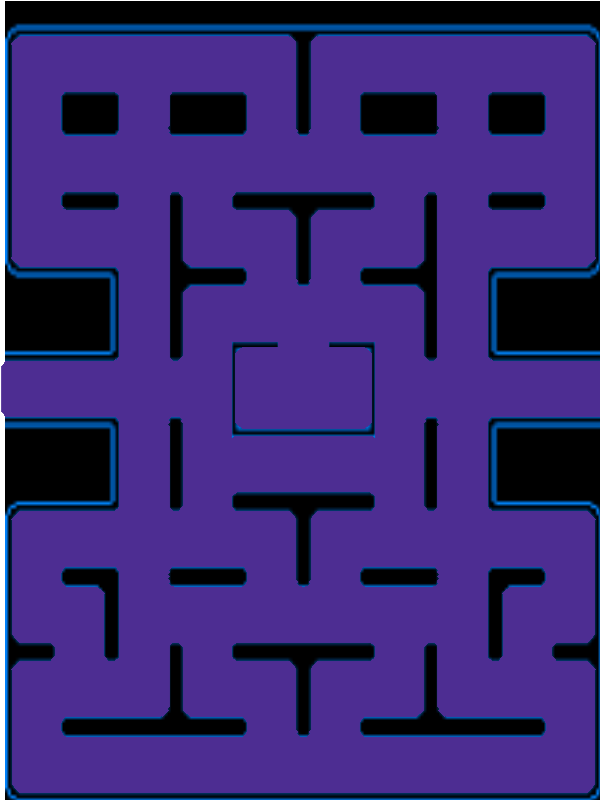
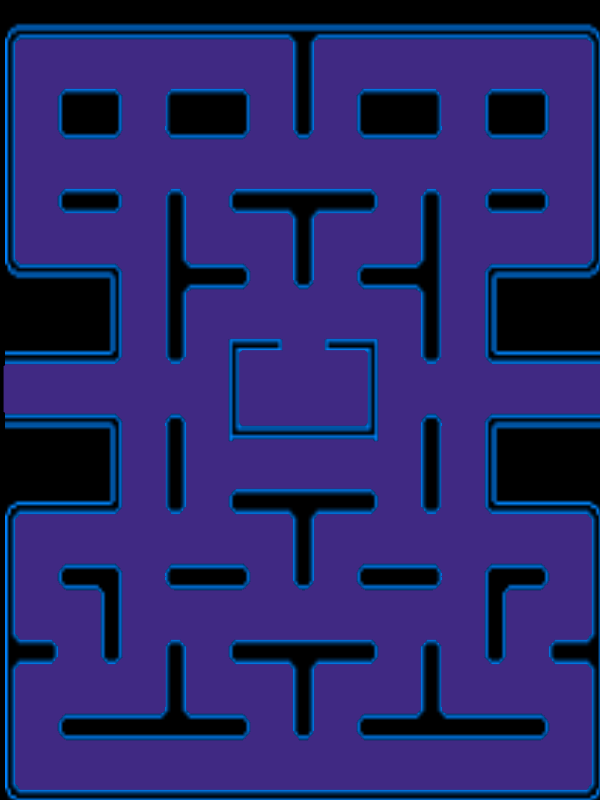
update

diff --git a/game/walls.py b/game/walls.py
@@ -9,7 +9,7 @@ class wall_creation():
         self._arcade = screen
         self._walls = self._arcade.SpriteList()
         self._down_list = [660, 660, 660, 660, 584, 584, 286, 286, 210, 210, 435, 512, 586, 510, 435, 510, 285, 210, 210, 135, 210, 135, 60, 85, 135, 60, 60, 90, 435, 535, 435, 535, 760, 660, 445, 445, 360, 360, 360, 285, 0, 135, 0, 285, 10, 135]
-        self._left_list = [57, 164, 354, 483, 57, 483, 164, 419, 164, 356, 164, 188, 225, 290, 419, 354, 225, 290, 57, 100, 483, 484, 57, 164, 225, 289, 354, 420, 0, 590, 480, 0, 0, 291, 324, 225, 227, 365, 241, 0, 0, 15, 5, 480, 590, 546, 547]
+        self._left_list = [57, 164, 354, 483, 57, 483, 164, 419, 164, 356, 164, 188, 225, 290, 419, 354, 225, 290, 57, 100, 483, 484, 57, 164, 225, 289, 354, 420, 0, 590, 480, 0, 0, 291, 324, 225, 232, 365, 241, 0, 0, 15, 5, 480, 590, 546, 547]
 
     def create_walls(self):
 

diff --git a/game/handle_collisions.py b/game/handle_collisions.py
@@ -1,4 +1,6 @@
 from time import sleep
+
+import arcade
 from game.atat import ATAT
 
 class Handle_Collision:
@@ -39,7 +41,11 @@ class Handle_Collision:
             self.player.remove_from_sprite_lists()
             self._atat._reset(self.ghost)
             sleep(1)
-            self.lives[-1].remove_from_sprite_lists()
+            if len(self.lives) == 0:
+                arcade.finish_render()
+            elif len(self.lives) != 0:
+                self.lives[-1].remove_from_sprite_lists()
+
             
                 
 

diff --git a/main.py b/main.py
@@ -75,7 +75,13 @@ class My_Game(arcade.Window):
 
     def on_update(self, delta_time: float):
         
+        if len(self.all_sprites) == 0 and len(self.lives) >= 0:
+            self.player = Player("Images/Luke.png")
+            self.player.center_y = 185
+            self.player.center_x = 300
+            self.all_sprites.append(self.player)
         self.all_sprites.update()
+   
         self.ghost.update()
         self.dots.update()
         self._ai._ai(self.walls, self.ghost)

diff --git a/game/atat.py b/game/atat.py
@@ -7,7 +7,7 @@ class ATAT():
     def __init__(self) -> None:
 
         self.ghost = arcade.SpriteList()
-        self._x_list = [350, 319, 288, 257]
+        self._x_list = [350, 319, 288, 260]
 
     def _start_atat(self):
         pass
